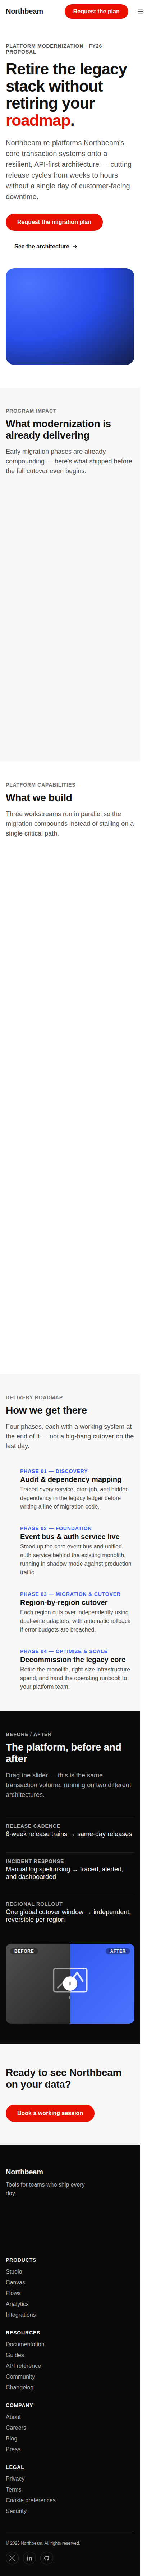
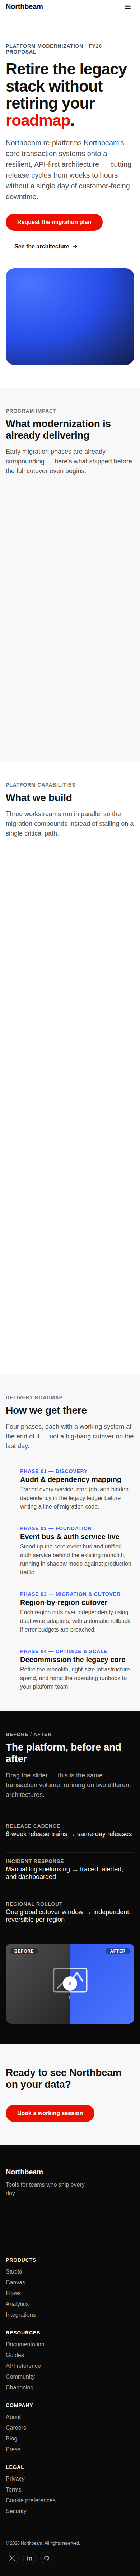
adobe-proposal: landing showcase page + nav nowrap fix, final screenshots
Composed landing page (nav, choreographed hero with self-drawing SVG
architecture motion graphic, stat band, cards, timeline, dark before/after
section, CTA band, footer) — verified zero console errors, red rationing,
reduced-motion static rendering.

Claude-Session: https://claude.ai/code/session_01CXNgPWANK3kx8GxYxCBdFu

diff --git a/adobe-proposal/design-system/landing.html b/adobe-proposal/design-system/landing.html
@@ -410,7 +410,7 @@ h1, h2, h3, h4, p { margin: 0; }
   display: flex;
   align-items: center;
   gap: var(--space-400);
-  height: 64px;
+  min-height: 64px;
   padding-inline: var(--gutter);
   background: var(--color-bg-base);
   border-bottom: var(--space-25) solid transparent;
@@ -442,7 +442,7 @@ h1, h2, h3, h4, p { margin: 0; }
   transform: scale(0.92);
 }
 .adb-nav__brand { display: flex; align-items: center; margin-inline-end: var(--space-200); }
-.adb-nav__links { display: flex; align-items: center; gap: var(--space-400); margin: 0; padding: 0; list-style: none; }
+.adb-nav__links { display: flex; align-items: center; gap: var(--space-400); margin: 0; padding: 0; list-style: none; white-space: nowrap; }
 .adb-nav__link {
   position: relative;
   display: inline-block;
@@ -509,8 +509,19 @@ h1, h2, h3, h4, p { margin: 0; }
 .adb-nav__panel-link:focus-visible { outline: none; box-shadow: var(--focus-ring); transition: none; }
 
 @media (max-width: 760px) {
+  .adb-nav { flex-wrap: wrap; }
   .adb-nav__links { display: none; }
   .adb-nav__burger { display: inline-flex; }
+}
+/* Below ~480px the wordmark + pill CTA + burger no longer fit on one line
+   (measured overflow at 390px viewport: ~19px past the edge). Move the CTA
+   into the drawer instead of shrinking it — a squeezed pill button reads as
+   a bug, a drawer entry doesn't. Base rule must precede the media query so
+   the query's override actually wins in the cascade at narrow widths. */
+.adb-nav__panel-cta { display: none; margin: 0 0 var(--space-300); align-self: flex-start; }
+@media (max-width: 480px) {
+  .adb-nav__cluster > .adb-btn-primary { display: none; }
+  .adb-nav__panel-cta { display: inline-flex; }
 }
 
 /* ==========================================================================
@@ -977,6 +988,7 @@ h1, h2, h3, h4, p { margin: 0; }
         <li><a class="adb-nav__panel-link" href="#roadmap">Roadmap</a></li>
         <li><a class="adb-nav__panel-link" href="#comparison">Before / after</a></li>
       </ul>
+      <a href="#comparison" class="adb-btn adb-btn-primary adb-btn-md adb-nav__panel-cta">Request the plan</a>
     </div>
   </div>
 </header>
@@ -1083,7 +1095,7 @@ h1, h2, h3, h4, p { margin: 0; }
         <div class="adb-stat" data-count data-target="12" data-suffix="%" data-decimals="0" style="--stat-index:3">
           <span class="adb-stat__value" data-value>0%</span>
           <span class="adb-stat__label">Support ticket rate</span>
-          <span class="adb-stat__delta adb-stat__delta--down">
+          <span class="adb-stat__delta adb-stat__delta--up">
             <svg viewBox="0 0 12 12" fill="none" aria-hidden="true"><path d="M6 2v8M6 10l3.5-3.5M6 10 2.5 6.5" stroke="currentColor" stroke-width="1.6" stroke-linecap="round" stroke-linejoin="round"/></svg>
             vs. baseline
           </span>